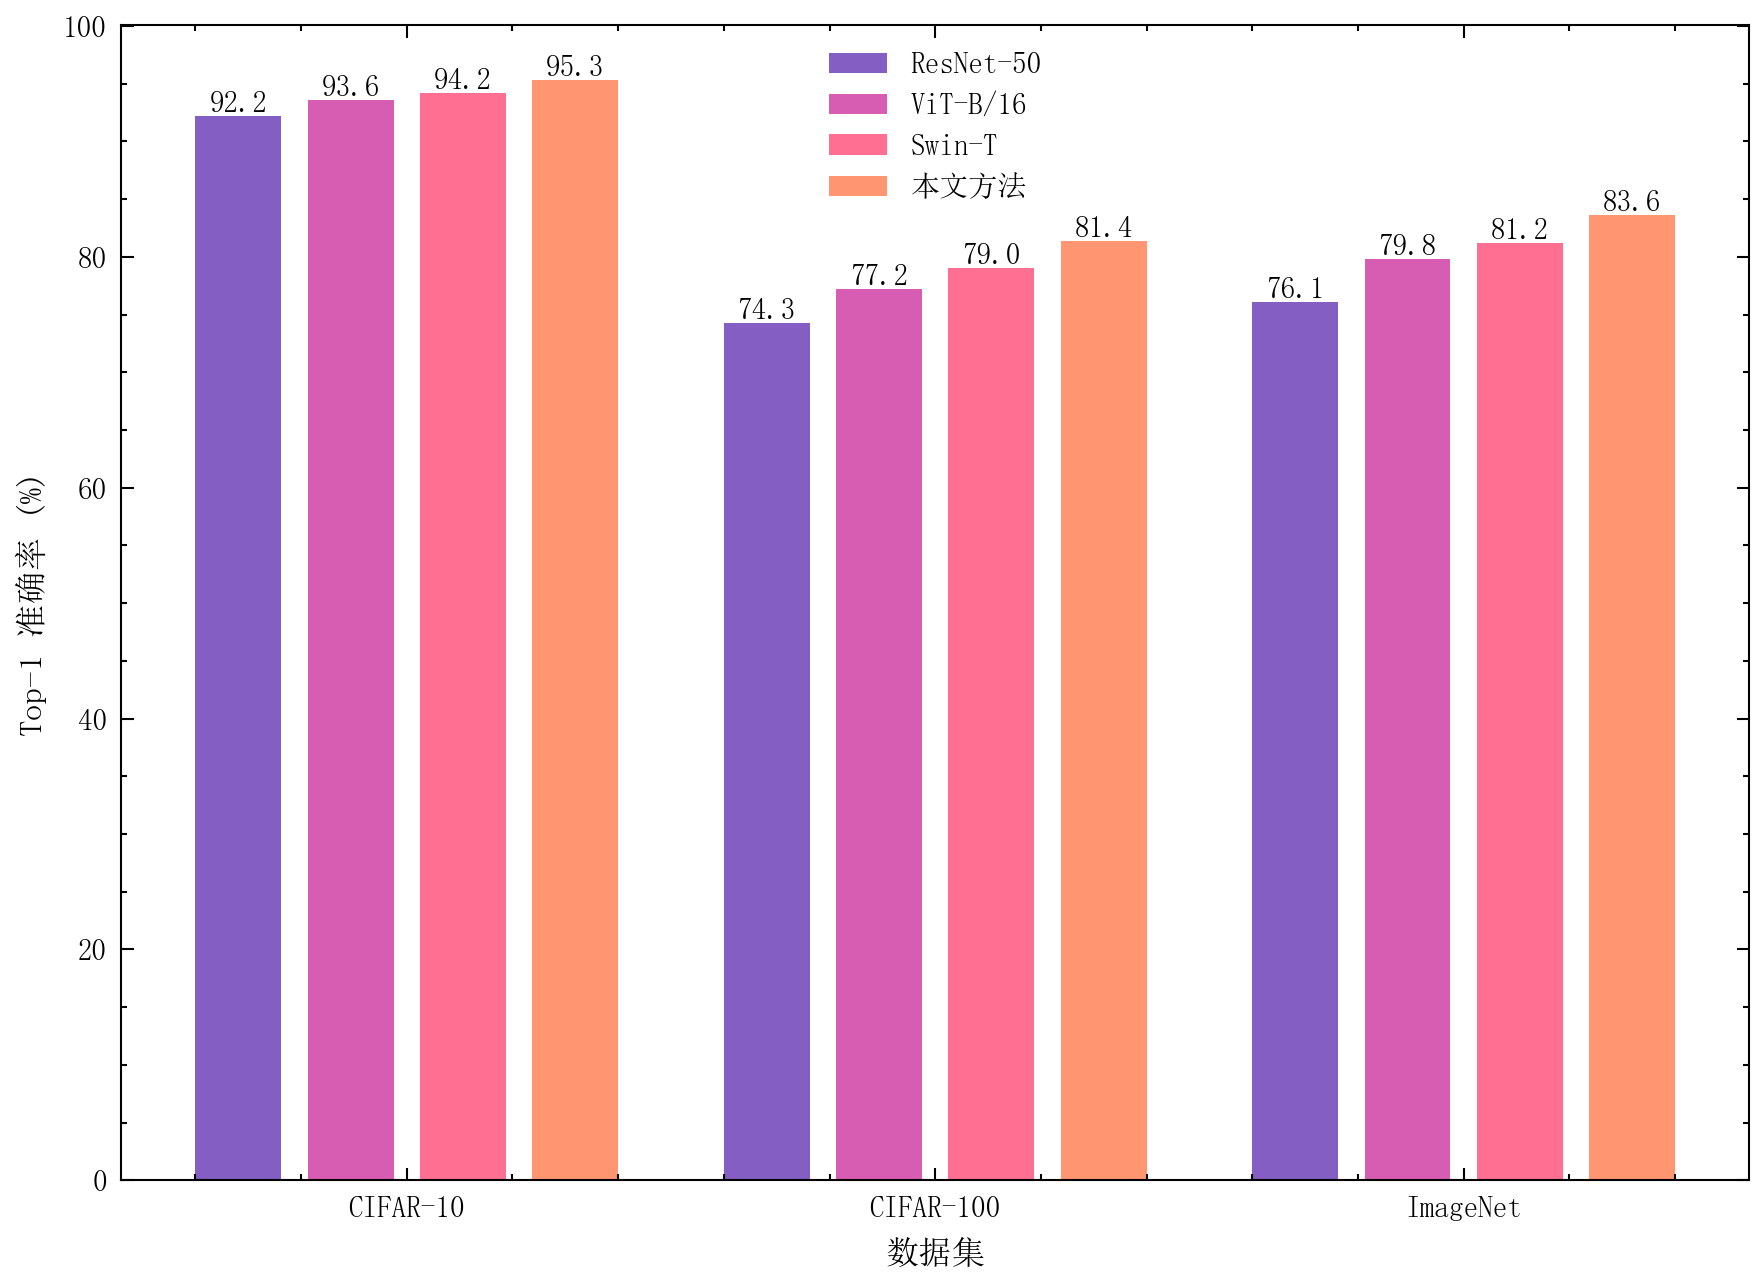
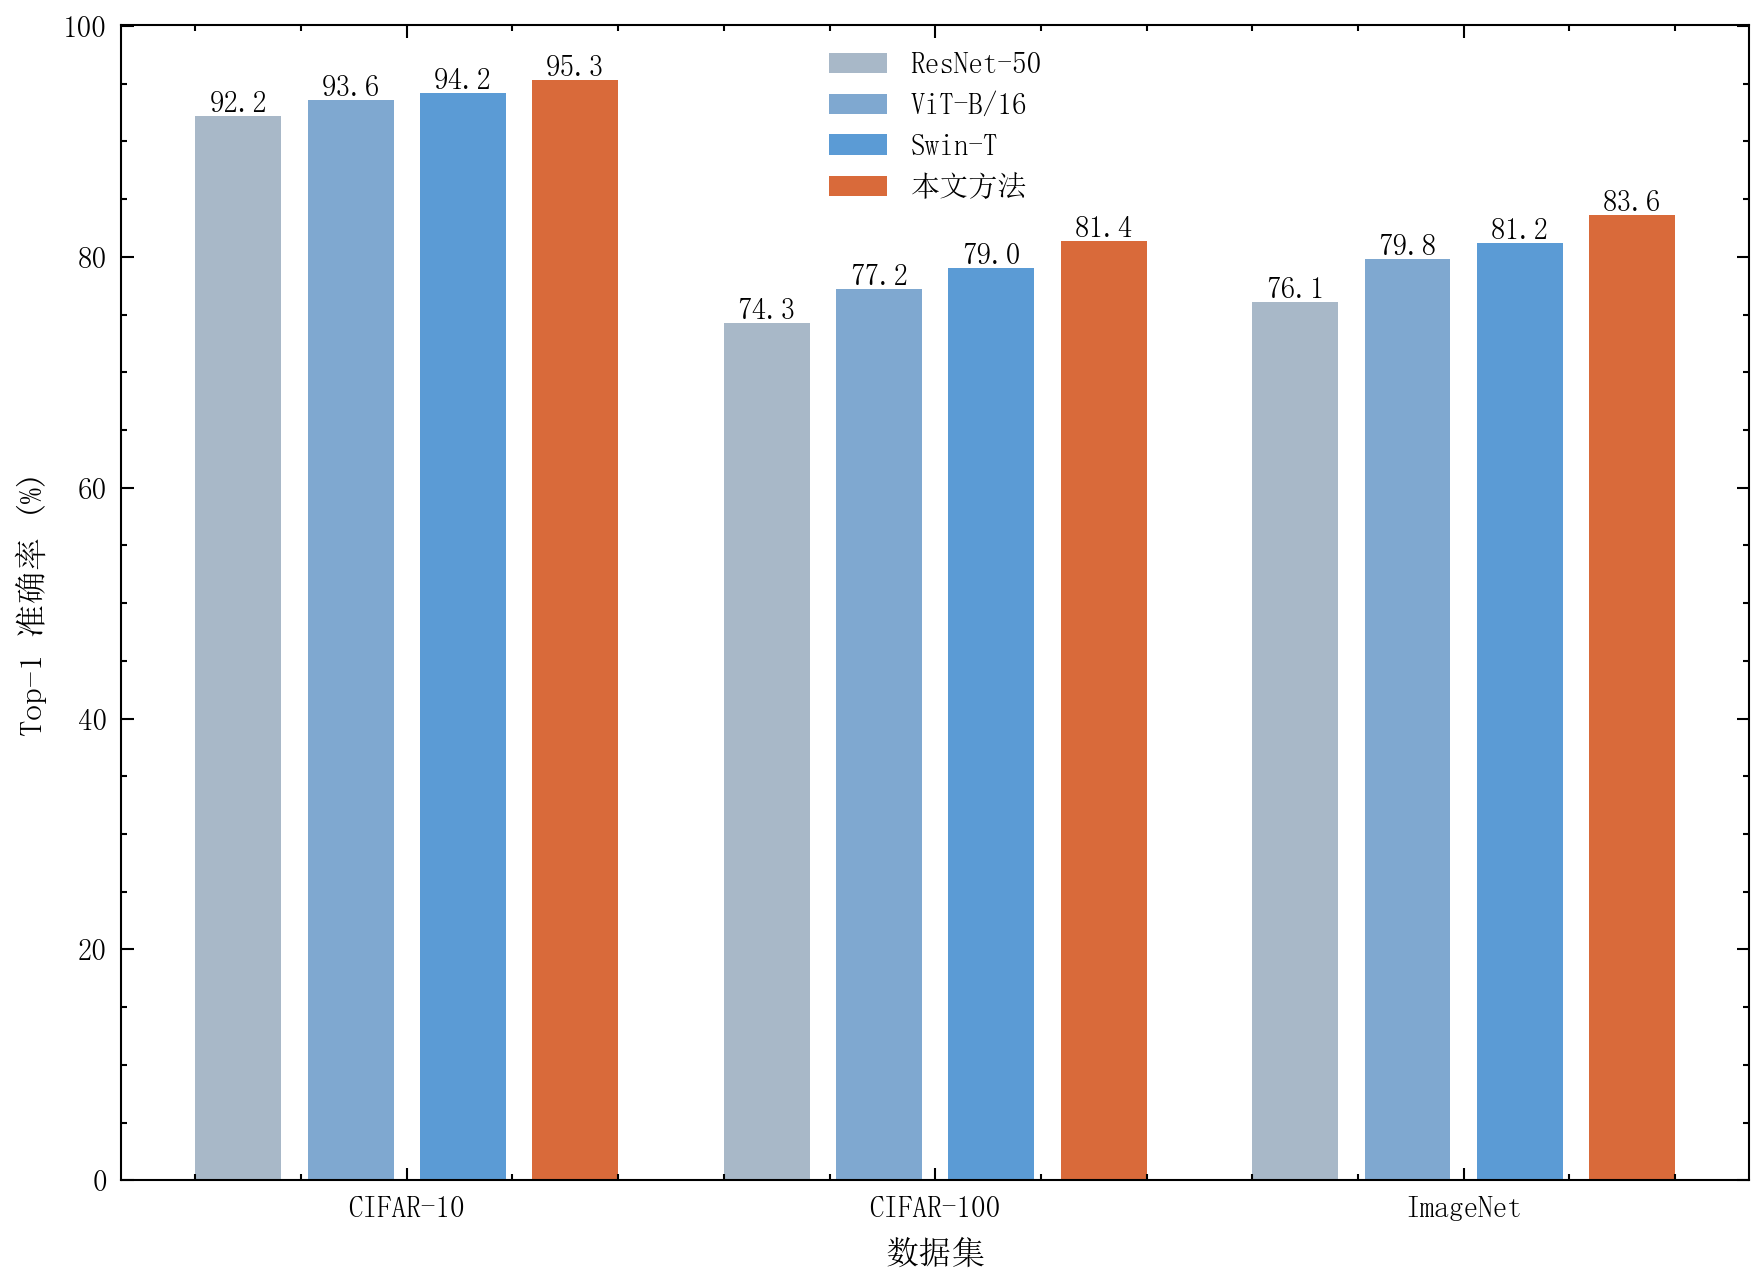
fix: grouped_bar colors参数遮蔽与Sequence导入; 校验前置

diff --git a/sciplot/_plots/distribution.py b/sciplot/_plots/distribution.py
@@ -5,7 +5,7 @@
 
 from __future__ import annotations
 
-from typing import Any, Dict, List, Optional, Union
+from typing import Any, Dict, List, Optional, Sequence, Union
 
 import matplotlib.pyplot as plt
 import numpy as np
@@ -154,7 +154,6 @@ def plot_grouped_bar(
     gap = validate_positive_number(gap, "gap", allow_zero=True)
 
     fig, ax = new_styled_figure(venue, palette, lang)
-    colors = _get_cycle_colors()
 
     n_series = len(normalized_data)
     if width <= gap * (n_series - 1):
@@ -162,13 +161,15 @@ def plot_grouped_bar(
             f"width={width} 过小，必须大于 gap*(系列数-1)={gap * (n_series - 1):.6g}，"
             "否则每个柱子的宽度将小于等于 0"
         )
-    bar_w = (width - gap * (n_series - 1)) / n_series
-    group_centers = np.arange(n_groups)
-
     if colors is not None and len(colors) != n_series:
         raise ValueError(
             f"colors 长度 ({len(colors)}) 与系列数 ({n_series}) 不一致"
         )
+    if colors is None:
+        colors = _get_cycle_colors()
+
+    bar_w = (width - gap * (n_series - 1)) / n_series
+    group_centers = np.arange(n_groups)
 
     for i, (series_name, values) in enumerate(normalized_data.items()):
         offsets = group_centers + (i - (n_series - 1) / 2) * (bar_w + gap)
